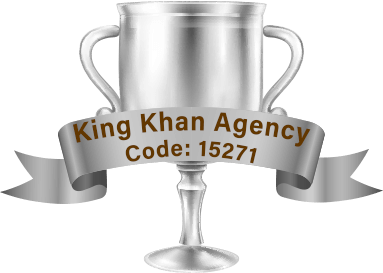
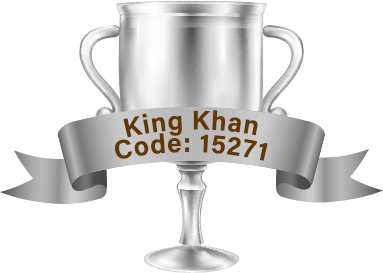
id and medal updated

Changed region(s): [[0.1723, 0.381, 0.8042, 0.6154]]

diff --git a/index.html b/index.html
@@ -151,15 +151,15 @@
 
 <script type="text/javascript">
 $( document ).ready(function() {
-  get_user_img(568728369);
-  get_user_img(593174029);
+  get_user_img(590780737);
   get_user_img(608559171);
-  get_user_img(588509181);
-  get_user_img(560633982);
+  // get_user_img(608559171);
+  // get_user_img(588509181);
+  // get_user_img(560633982);
 
-  get_user_img(621840252);
-  get_user_img(578076298);
-  get_user_img(631171662);
+  get_user_img(626411828);
+  get_user_img(586875443);
+  get_user_img(552206697);
   get_user_img(629712572);
 
   get_user_img(631843240);
